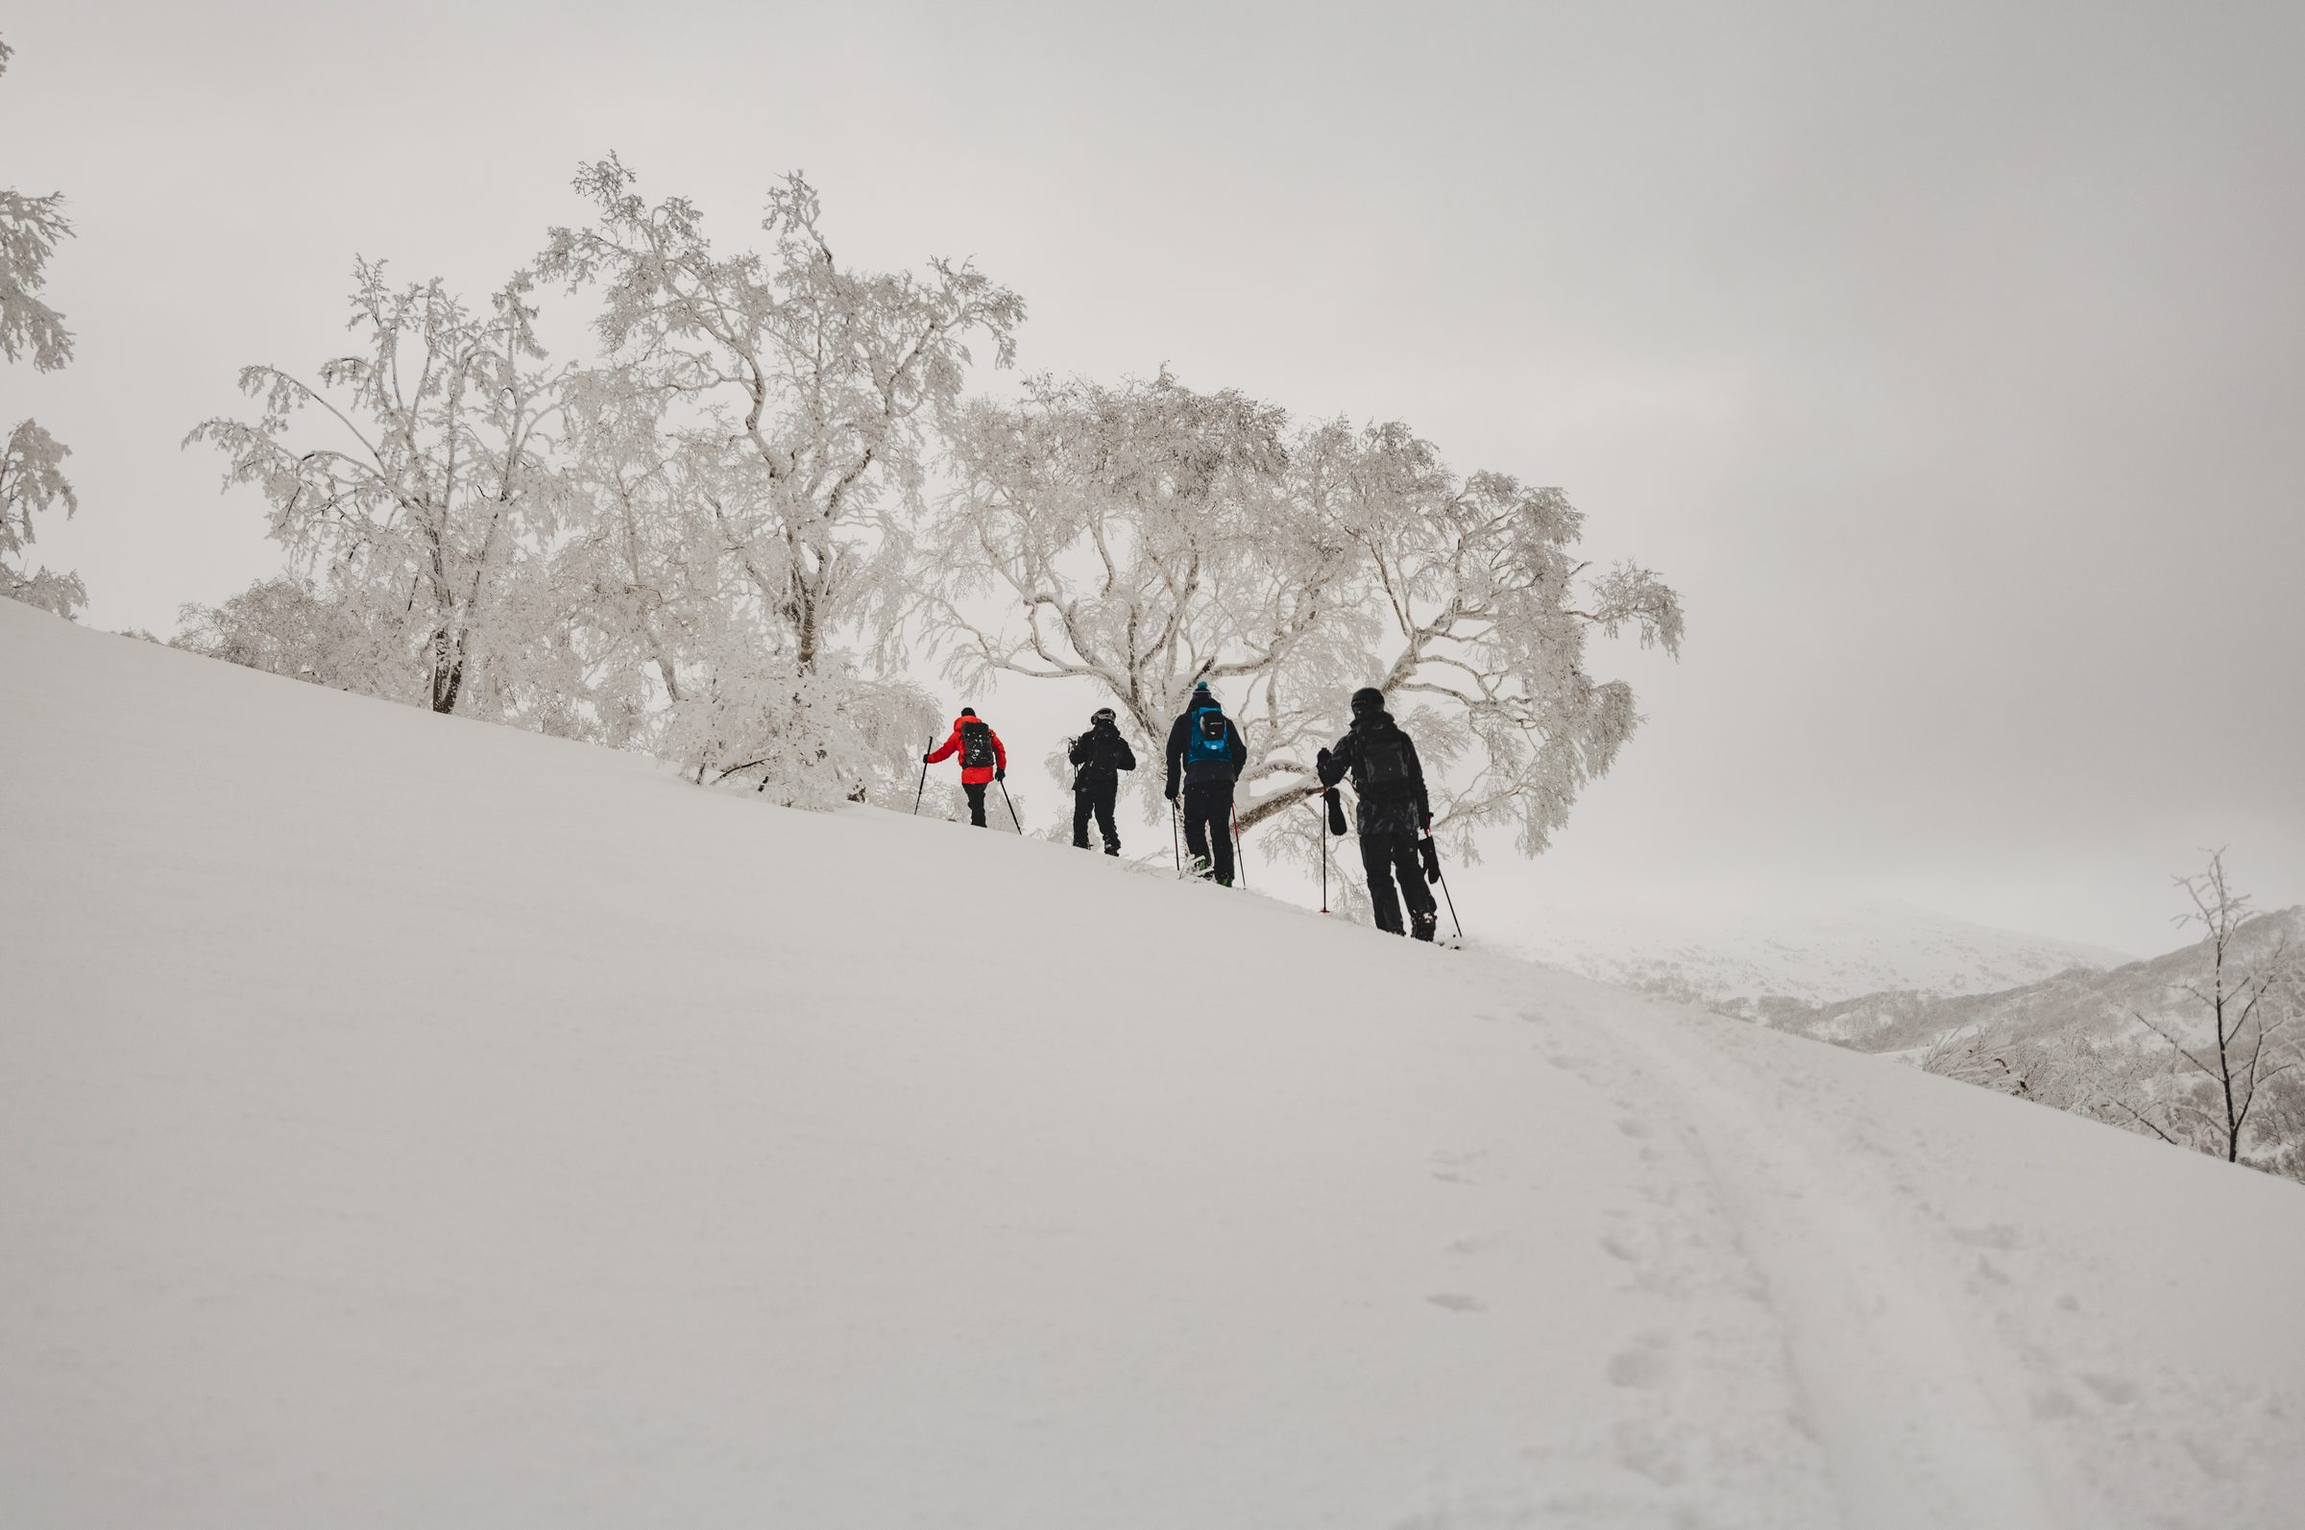
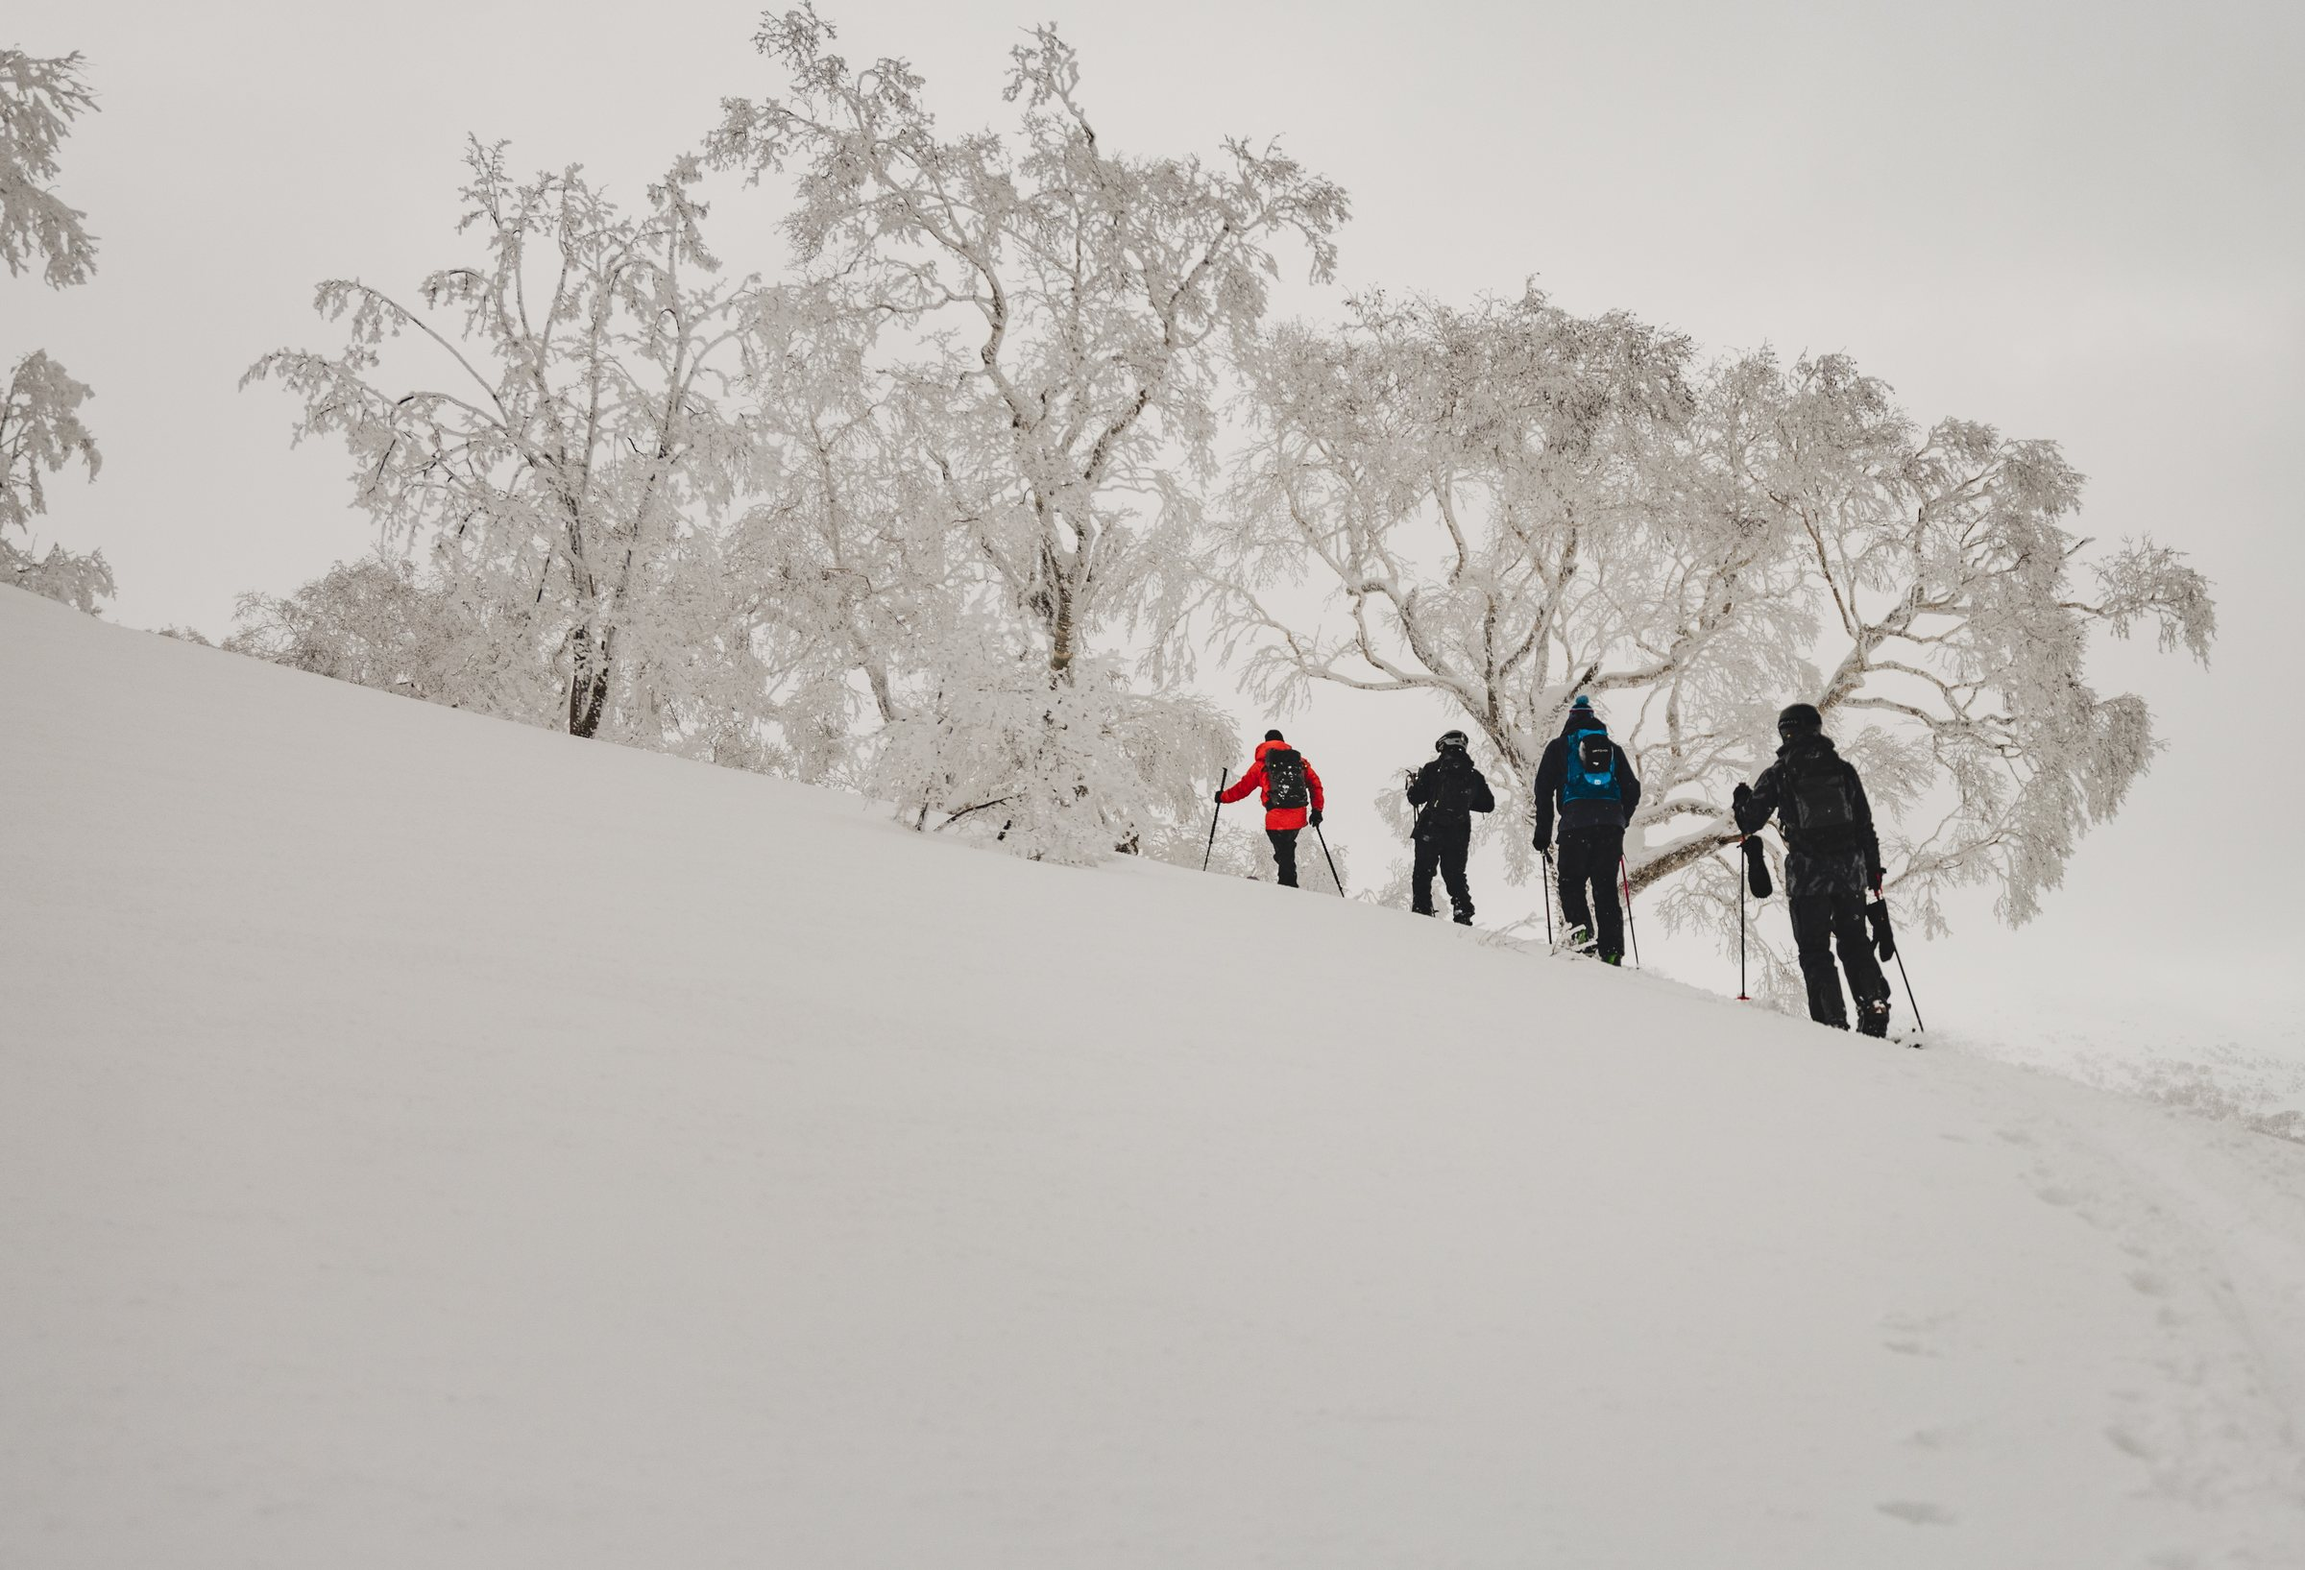
Crop homepage hero so hikers sit on the right
Zoom/crop keeps open snow on the left for type; CSS pins hero copy
to the left half so text does not cover the people.

Changed region(s): [[0.0625, 0.0, 1.0, 0.769], [0.0, 0.0308, 0.0625, 0.3999], [0.875, 0.2153, 0.9062, 0.2461]]

diff --git a/styles.css b/styles.css
@@ -173,6 +173,21 @@ ul { list-style: none; }
     linear-gradient(90deg, rgba(10, 28, 40, 0.55) 0%, transparent 60%);
 }
 
+/* Keep home hero type in the left half — hikers live on the right of the crop */
+.hero-home .hero-content {
+  max-width: min(100% - 2rem, 34rem);
+  margin-right: auto;
+  margin-left: max(1rem, calc((100% - var(--max)) / 2));
+  width: auto;
+}
+.hero-home h1 { max-width: 11ch; }
+.hero-home .hero-lede { max-width: 28rem; }
+.hero-home {
+  background-position: right center;
+}
+
+
+
 .hero::before {
   content: '';
   position: absolute;
